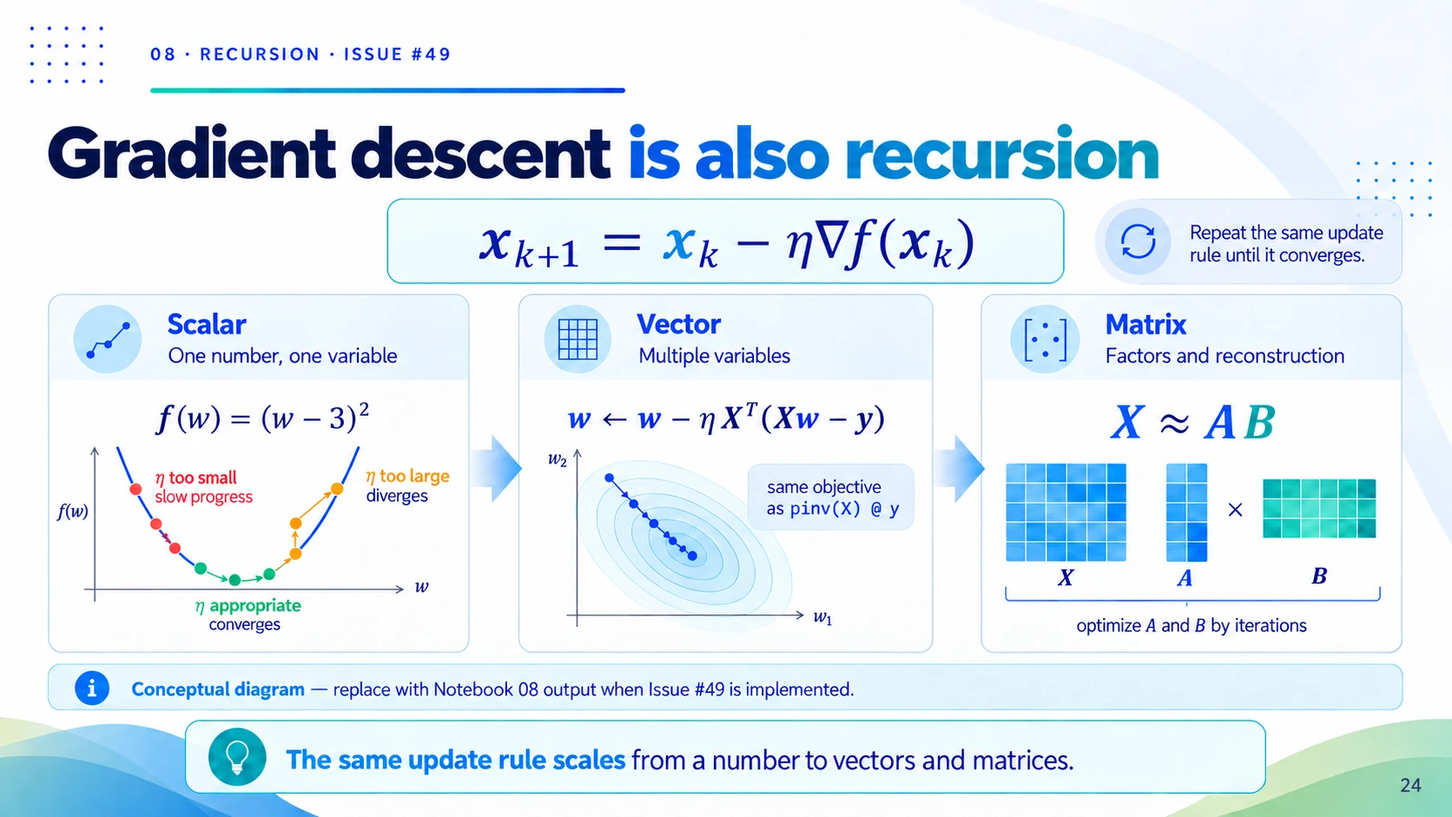
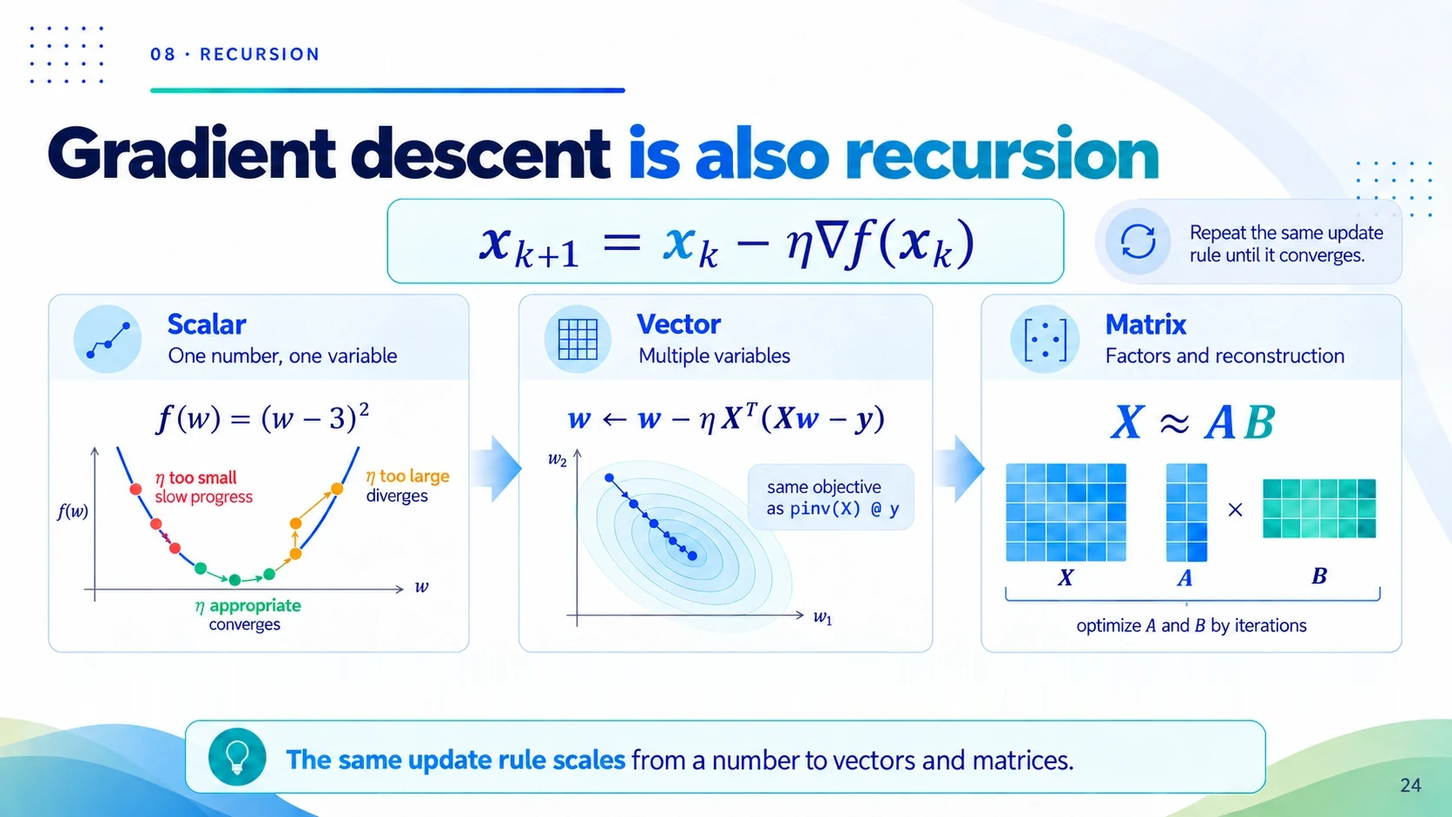
Make the copy say what the session does (#187)
The handbook's "What you did today" credited the room with a 20,433-row
fit, an airline forecast, an eigenvector and a deconvolved photograph, all
now Explore later or take-home, and skipped 05, 09 and 11. It is rewritten
from the core routes, in both languages.

Quiz 3 runs after section 10 and before 11, not right before the wrap-up:
fixed in the handbook, both Kahoot pages, kahoot/README.md and both decks.
The cutting order drops three items that sit outside the 210 minutes and
so saved nothing. The quizzes-and-breaks arithmetic, the 210-minute
subtitle, "convolving" on the homepage and the Spanish README, slide 29b's
Colab title and the 25-pixel deconvolution border (which is what gives
0.1157 -> 0.0815) are corrected too.

Slide 24 loses its "replace when Issue #49 is implemented" banner in both
languages, painted out of the webp; #49 was closed without the notebook
work. The 07/09/10 vs 07/10/13 split in the wrap-up is deliberate
(_variables.yml documents it) and is left alone.

Changed region(s): [[0.0311, 0.8013, 0.9641, 0.8937], [0.2177, 0.0616, 0.311, 0.0925], [0.3732, 0.4006, 0.4043, 0.4315]]

diff --git a/es/tensors_workshop_plan_with_quizzes.md b/es/tensors_workshop_plan_with_quizzes.md
@@ -1,6 +1,6 @@
 ---
 title: "Tensores para Aprendizaje Automático"
-subtitle: "Un taller de 3 horas (+3 controles de Kahoot) — Manual del estudiante"
+subtitle: "Un taller de 210 minutos con tres controles de Kahoot — Manual del estudiante"
 lang: es
 title-block-banner: ../images/hero-band.png
 title-block-banner-color: body
@@ -80,7 +80,8 @@ también antes del siguiente cambio de contexto: una pausa, o una Parte nueva.
 Así el cuestionario refuerza el trabajo en vez de interrumpirlo. El
 cuestionario 1 cierra el trabajo de formas y vocabulario de las secciones 03 y
 04. El 2 cierra el tramo de einsum y pseudoinversa, secciones 06 y 07. El 3
-cierra el tramo de descomposiciones, secciones 09 y 10, justo antes del cierre.
+cierra el Tucker de la sección 10 mientras el resultado de los taxis sigue en
+pantalla, antes de que la sección 11 lleve el mismo tensor a CP.
 
 ---
 
@@ -815,7 +816,7 @@ Fíjate en las cadenas de einsum: `'ijk,ia,jb,kc->abc'` contrae tres ejes en una
 
 <span data-language-key="kahoot-quiz-3-convolution-tensor-decompositions-5-min"></span>
 
-**Hazlo justo después de la sección 10, antes de la sección 11.** Sus seis preguntas siguen cubriendo convolución y correlación junto con Tucker y CP. La convolución pasó a ser el ejercicio para casa 13 cuando las factorizaciones entraron en la jornada, y las preguntas todavía no se han reescrito. Hazlo mientras el resultado de la hora punta del tensor de taxis siga en pantalla. Lanza `kahoot_quiz_3_convolution_decompositions.xlsx` (6 preguntas, ~5 min). Sirve además de ensayo en vivo del propio repaso del cierre, así que enlaza directamente del cuestionario al cierre.
+**Hazlo justo después de la sección 10, antes de la sección 11.** Sus seis preguntas siguen cubriendo convolución y correlación junto con Tucker y CP. La convolución pasó a ser el ejercicio para casa 13 cuando las factorizaciones entraron en la jornada, y las preguntas todavía no se han reescrito. Hazlo mientras el resultado de la hora punta del tensor de taxis siga en pantalla. Lanza `kahoot_quiz_3_convolution_decompositions.xlsx` (6 preguntas, ~5 min) y pasa directamente del podio a la sección 11, que lleva el mismo tensor a CP.
 
 ---
 
@@ -937,12 +938,12 @@ Para el tratamiento interactivo completo —selector de método, tiempos medidos
 
 Lo que has hecho hoy:
 
-1. **Parte I**: aprender el vocabulario de los tensores (eje, orden, forma, corte, fibra, desplegado, contracción, descomposición), y que el desplegado convierte cualquier tensor en una matriz sin perder un solo número.
-2. **Parte II**: trabajar qué significan los ejes y por qué el eje de lote y el eje de tiempo son semánticamente distintos.
-3. **Parte III**: indexar, hacer broadcasting, reorganizar y transponer datos reales de tumores e imágenes médicas reales, y tropezar con problemas reales: píxeles de varianza cero, y `reshape` destruyendo una imagen en silencio.
-4. **Parte IV**: escribir contracciones con `einsum`; resolver un sistema irresoluble de 20 433 ecuaciones con la pseudoinversa; usar la recursión para pronosticar tráfico aéreo real y para encontrar un vector propio; convolucionar y deconvolucionar una fotografía real; y comprimir 4,7× un tensor real de taxis con Tucker, cuyo patrón horario más fuerte tiene su pico en la hora punta.
+1. **Parte I**: leer una fotografía real como un tensor: forma `(512, 512, 3)`, 786 432 números, y un eje que se conoce por lo que significa además de por su tamaño.
+2. **Parte II**: barajar un lote de dígitos y un clip de vídeo con la misma permutación: los dígitos conservaron sus etiquetas y el vídeo perdió su historia, porque el eje de lote y el eje de tiempo son ejes de distinto tipo.
+3. **Parte III**: estandarizar 1797 dígitos con broadcasting y tropezar con los píxeles que nunca varían y se convierten en NaN; mover el eje de canal de imágenes reales de microscopía y cazar el único `reshape` que corre sin error y desordena una fotografía; y quedarse con 16 de los 720 fotogramas de un vídeo real, cada uno rastreado hasta el fotograma del que salió.
+4. **Parte IV**: pasar una imagen en color a gris con un solo `einsum`; ver cómo la pseudoinversa elige la más pequeña de muchas respuestas igual de buenas cuando dos columnas son copia una de la otra; calcular Fibonacci como una potencia de matriz; ajustar el tráfico aéreo real por QR y por las ecuaciones normales, y descubrir residuos parecidos que esconden coeficientes distintos; y reducir un tensor real de taxis de 480 conteos a 60 números con Tucker, conservando un único patrón diario con su pico en la hora 18, antes de que CP ganara el mismo juego al bajar el umbral de error al 2 %.
 
-**Una sola idea conecta las secciones 07, 09 y 10:** cuando un problema no tiene respuesta exacta ni inversa verdadera, no te rindes: buscas la mejor aproximación estable. Esas tres secciones la *enuncian*. La ves ocurrir tres veces: la pseudoinversa sobre un sistema lineal real en la sección 07, Tucker sobre un tensor demasiado grande en la sección 10, y Richardson-Lucy sobre una fotografía desenfocada en el ejercicio 13.
+**Una sola idea conecta las secciones 07, 09 y 10:** cuando un problema no tiene respuesta exacta ni inversa verdadera, no te rindes: buscas la mejor aproximación estable. Esas tres secciones la *enuncian*. La ves ocurrir tres veces: la pseudoinversa sobre dos columnas que son copia una de la otra en la sección 07, Tucker sobre el tensor de taxis en la sección 10, y Richardson-Lucy sobre una fotografía desenfocada en el ejercicio 13.
 
 **Adónde ir después**
 
@@ -1249,7 +1250,7 @@ sobel = np.array([[-1,0,1],[-2,0,2],[-1,0,1]], float)
 #         even though it does not undo anything?
 # TODO 4 (true deconvolution): add small noise to the blurred image, then try to
 #         recover the original with skimage.restoration.richardson_lucy(...,
-#         num_iter=50). Measure error BEFORE and AFTER, ignoring a 20-pixel
+#         num_iter=50). Measure error BEFORE and AFTER, ignoring a 25-pixel
 #         border. Did it improve?
 ```
 
@@ -1296,7 +1297,7 @@ naive = np.real(np.fft.ifft2(np.fft.fft2(noisy) / np.where(abs(K) < 1e-3, 1e-3, 
 
 **Idioma.** El alumnado tiene el inglés como segunda lengua (Colombia). Habla despacio, evita los modismos y define los términos la primera vez que los uses. Nombra en voz alta los cognados en español desde el principio —*eje*, *descomposición*, *contracción*, *convolución*—: quita fricción de inmediato. Invita a preguntar en cualquiera de los dos idiomas. Avisa de los dos sentidos de «rank» al comienzo de la Parte I.
 
-**Números verificados.** Toda salida citada en este documento se ejecutó y se comprobó: radio medio maligno frente a benigno 17,5/12,1; 3 píxeles de varianza cero en los dígitos; 207 valores faltantes en los datos de vivienda; RMSE de vivienda ≈ 75 980; error de deconvolución 0,1157 → 0,0815 (excluyendo un borde de 20 píxeles); Tucker sobre taxis con compresión 4,71× al 6,7 % de error y el factor de hora con su pico en las 18; para el apéndice E, una grabación de 4,949 s que da una STFT de (513, 465) cuyo mejor rango probado es 40 a 9,08 dB frente a los 5,00 dB de la entrada ruidosa; y, para la sección 09, la Vandermonde de grado 10 de la serie aérea con κ(X) = 2,16e7 y κ(XᵀX) = 4,65e14, con errores de coeficiente de 1,95e-03 por ecuaciones normales frente a 2,04e-14 por QR, y el rango 16 de la imagen astronaut a 21,1 dB. Si alguien obtiene algo distinto, merece investigarse en lugar de descartarse. **La única excepción son los tiempos de la sección 09.** Son propiedades de la máquina, no de los datos. Una CPU de Colab no los reproducirá, y por eso el apéndice cita razones y no milisegundos.
+**Números verificados.** Toda salida citada en este documento se ejecutó y se comprobó: radio medio maligno frente a benigno 17,5/12,1; 3 píxeles de varianza cero en los dígitos; 207 valores faltantes en los datos de vivienda; RMSE de vivienda ≈ 75 980; error de deconvolución 0,1157 → 0,0815 (excluyendo un borde de 25 píxeles); Tucker sobre taxis con compresión 4,71× al 6,7 % de error y el factor de hora con su pico en las 18; para el apéndice E, una grabación de 4,949 s que da una STFT de (513, 465) cuyo mejor rango probado es 40 a 9,08 dB frente a los 5,00 dB de la entrada ruidosa; y, para la sección 09, la Vandermonde de grado 10 de la serie aérea con κ(X) = 2,16e7 y κ(XᵀX) = 4,65e14, con errores de coeficiente de 1,95e-03 por ecuaciones normales frente a 2,04e-14 por QR, y el rango 16 de la imagen astronaut a 21,1 dB. Si alguien obtiene algo distinto, merece investigarse en lugar de descartarse. **La única excepción son los tiempos de la sección 09.** Son propiedades de la máquina, no de los datos. Una CPU de Colab no los reproducirá, y por eso el apéndice cita razones y no milisegundos.
 
 **Las descargas.** Tres CSV desde URL raw de GitHub. Son pequeños y rápidos. Aun así, confirma en los primeros 5 minutos que todas las descargas han funcionado: quien falle en silencio se quedará atascado en las secciones 07 y 10. Ten los tres CSV replicados en el repositorio del taller como alternativa.
 
@@ -1306,11 +1307,11 @@ naive = np.real(np.fft.ifft2(np.fft.fft2(noisy) / np.where(abs(K) < 1e-3, 1e-3, 
 
 **Los tres cuestionarios de Kahoot.** Cada uno son 6 preguntas en `kahoot_quiz_1_vocabulary_shapes.xlsx`, `kahoot_quiz_2_distance_pseudoinverse.xlsx` y `kahoot_quiz_3_convolution_decompositions.xlsx`, situados después de las secciones 04, 07 y 10 respectivamente. Importa cada uno a un kahoot con antelación (Create → Add question → Import → Import spreadsheet); no lo hagas en directo. Presupuesta 5 minutos por cuestionario con el podio incluido; a los grupos les suele apetecer ver la clasificación, y está bien, es la recompensa. Estos suman 15 minutos en total, y llevan el taller de 195 a 210 minutos.
 
-**Recortes por tiempo.** En este orden: quita el **Kahoot 2** (el menos novedoso de los tres: la pseudoinversa y la distancia se vuelven a cubrir narrativamente en el cierre), luego el TODO 4 del apéndice F (deconvolución verdadera, lo más exigente técnicamente y ya de por sí para casa), luego el fragmento de RNN de la demo de recursión, luego la pregunta 5 del bloque de grupo del pipeline de vídeo, y luego el **Kahoot 1**. No quites nunca la §1.3 de la Parte I, la sección 10 ni el **Kahoot 3**. El Kahoot 3 es la forma más barata de comprobar si Tucker y CP han calado, y solo puedes comprobarlo antes de que la gente se vaya.
+**Recortes por tiempo.** En este orden: quita el **Kahoot 2** (el menos novedoso de los tres: la pseudoinversa vuelve en la diapositiva de la idea única del cierre) y luego el **Kahoot 1**. Todo lo que queda después del **Fin de la ruta esencial** de un cuaderno, y todos los apéndices, ya está fuera de los 210 minutos, así que quitarlo no ahorra nada. No quites nunca la §1.3 de la Parte I, la sección 10 ni el **Kahoot 3**: el último comprueba si Tucker ha calado mientras el resultado de los taxis sigue en pantalla.
 
 **Asperezas conocidas.** El TODO 4 del apéndice F es lo más difícil del taller.
 Quien se salte el recorte del borde concluirá que la deconvolución falló, así
-que señala el recorte de 20 píxeles con claridad *antes* de que empiece el
+que señala el recorte de 25 píxeles con claridad *antes* de que empiece el
 ejercicio, no después. El TODO 3 de la sección 07 pide provocar un error a
 propósito. Habrá quien piense que ha hecho algo mal, así que di de antemano que
 el error es el resultado esperado.

diff --git a/tensors_workshop_plan_with_quizzes.md b/tensors_workshop_plan_with_quizzes.md
@@ -1,6 +1,6 @@
 ---
 title: "Tensors for Machine Learning"
-subtitle: "A 3-Hour Workshop (+3 Kahoot Checks) — Student Handbook"
+subtitle: "A 210-Minute Workshop with Three Kahoot Checks — Student Handbook"
 title-block-banner: images/hero-band.png
 title-block-banner-color: body
 ---
@@ -61,8 +61,8 @@ supply its content, while the material is still fresh. Each also lands before
 the next context switch — a break, or a new Part. So a quiz reinforces the work
 rather than interrupting it. Quiz 1 closes out the shape-and-vocabulary work of
 sections 03 and 04. Quiz 2 closes out the einsum and pseudoinverse stretch,
-sections 06 and 07. Quiz 3 closes out the decomposition stretch, sections 09
-and 10, right before the wrap-up.
+sections 06 and 07. Quiz 3 closes out section 10's Tucker while the taxi
+result is still on screen, before section 11 takes the same tensor to CP.
 
 ---
 
@@ -796,7 +796,7 @@ Look at the einsum strings: `'ijk,ia,jb,kc->abc'` contracts three axes in one ex
 
 <span data-language-key="kahoot-quiz-3-convolution-tensor-decompositions-5-min"></span>
 
-**Run this right after section 10, before section 11.** Its six questions still cover convolution and correlation alongside Tucker and CP. Convolution became take-home 13 when factorizations moved into the day, and the questions have not been rewritten yet. Run it while the taxi-tensor rush-hour result is still on screen. Launch `kahoot_quiz_3_convolution_decompositions.xlsx` (6 questions, ~5 min). This also doubles as a live rehearsal of the Wrap-up's own recap, so segue straight from the quiz into it.
+**Run this right after section 10, before section 11.** Its six questions still cover convolution and correlation alongside Tucker and CP. Convolution became take-home 13 when factorizations moved into the day, and the questions have not been rewritten yet. Run it while the taxi-tensor rush-hour result is still on screen. Launch `kahoot_quiz_3_convolution_decompositions.xlsx` (6 questions, ~5 min), then go straight from the podium into section 11, which takes the same tensor to CP.
 
 ---
 
@@ -921,12 +921,12 @@ For the full interactive treatment — method chooser, measured timing, matched-
 
 What you did today:
 
-1. **Part I** — learned the vocabulary of tensors (axis, order, shape, slice, fiber, unfolding, contraction, decomposition), and that unfolding turns any tensor into a matrix without losing a single number.
-2. **Part II** — worked through what axes mean and why batch and time axes are semantically different.
-3. **Part III** — indexed, broadcast, reshaped and transposed real tumour data and real medical images, and hit real problems: zero-variance pixels, and reshape silently destroying an image.
-4. **Part IV** — wrote contractions with `einsum`; solved an unsolvable 20,433-equation system with the pseudoinverse; used recursion to forecast real airline traffic and to find an eigenvector; convolved and deconvolved a real photograph; and compressed a real taxi tensor 4.7× with Tucker, whose strongest hour pattern peaks at rush hour.
+1. **Part I** — read a real photograph as a tensor: shape `(512, 512, 3)`, 786,432 numbers, and an axis known by what it means as well as by its size.
+2. **Part II** — shuffled a batch of digits and a clip of video with the same permutation: the digits kept their labels and the video lost its story, because a batch axis and a time axis are different kinds of axis.
+3. **Part III** — standardized 1,797 digits with broadcasting and hit the pixels that never vary and turn into NaN; moved the channel axis of real microscopy images and caught the one reshape that runs without an error and scrambles a photograph; and kept 16 of a real video's 720 frames, each traced back to the frame it came from.
+4. **Part IV** — turned a colour image grey with one `einsum`; watched the pseudoinverse pick the smallest of many equally good answers when two columns are copies of each other; ran Fibonacci as a matrix power; fitted real airline traffic by QR and by the normal equations, and found similar residuals hiding different coefficients; and shrank a real taxi tensor from 480 counts to 60 numbers with Tucker, keeping one daily pattern that peaks at hour 18, before CP won the same game once the error bar dropped to 2%.
 
-**One idea connects sections 07, 09 and 10:** when a problem has no exact answer and no true inverse, you do not give up. You find the best stable approximation instead. Those three sections *state* it. You watch it happen three times: the pseudoinverse on a real linear system in section 07, Tucker on an oversized tensor in section 10, and Richardson-Lucy on a blurred photograph in take-home 13.
+**One idea connects sections 07, 09 and 10:** when a problem has no exact answer and no true inverse, you do not give up. You find the best stable approximation instead. Those three sections *state* it. You watch it happen three times: the pseudoinverse on two columns that are copies of each other in section 07, Tucker on the taxi tensor in section 10, and Richardson-Lucy on a blurred photograph in take-home 13.
 
 **Where to go next**
 - `torch.einsum` / `tf.einsum` / `jnp.einsum` — identical syntax to what you used today.
@@ -1229,7 +1229,7 @@ sobel = np.array([[-1,0,1],[-2,0,2],[-1,0,1]], float)
 #         even though it does not undo anything?
 # TODO 4 (true deconvolution): add small noise to the blurred image, then try to
 #         recover the original with skimage.restoration.richardson_lucy(...,
-#         num_iter=50). Measure error BEFORE and AFTER, ignoring a 20-pixel
+#         num_iter=50). Measure error BEFORE and AFTER, ignoring a 25-pixel
 #         border. Did it improve?
 ```
 
@@ -1276,7 +1276,7 @@ naive = np.real(np.fft.ifft2(np.fft.fft2(noisy) / np.where(abs(K) < 1e-3, 1e-3, 
 
 **Language.** Students are ESL (Colombia). Speak slowly, avoid idiom, and define terms on first use. Name the Spanish cognates aloud early — *eje*, *descomposición*, *contracción*, *convolución* — it removes friction immediately. Invite questions in either language. Warn about the two meanings of "rank" at the start of Part I.
 
-**Verified numbers.** Every output quoted in this document was executed and checked: malignant vs benign mean radius 17.5/12.1; 3 zero-variance digit pixels; 207 missing values in the housing data; housing RMSE ≈ 75,980; deconvolution error 0.1157 → 0.0815 (20-pixel border excluded); taxi Tucker 4.71× compression at 6.7% error with the hour factor peaking at 18; for Appendix E, a 4.949 s recording giving a (513, 465) STFT whose best tested rank is 40 at 9.08 dB against the noisy input's 5.00 dB; and, for section 09, the degree-10 airline Vandermonde at κ(X) = 2.16e7 and κ(XᵀX) = 4.65e14, with coefficient errors of 1.95e-03 by the normal equations against 2.04e-14 by QR, and rank 16 of the astronaut image at 21.1 dB. If a student gets something different, it is worth investigating rather than dismissing. **The one exception is section 09's timings.** Those are properties of the machine, not of the data. A Colab CPU will not reproduce them, which is why the appendix quotes ratios rather than milliseconds.
+**Verified numbers.** Every output quoted in this document was executed and checked: malignant vs benign mean radius 17.5/12.1; 3 zero-variance digit pixels; 207 missing values in the housing data; housing RMSE ≈ 75,980; deconvolution error 0.1157 → 0.0815 (25-pixel border excluded); taxi Tucker 4.71× compression at 6.7% error with the hour factor peaking at 18; for Appendix E, a 4.949 s recording giving a (513, 465) STFT whose best tested rank is 40 at 9.08 dB against the noisy input's 5.00 dB; and, for section 09, the degree-10 airline Vandermonde at κ(X) = 2.16e7 and κ(XᵀX) = 4.65e14, with coefficient errors of 1.95e-03 by the normal equations against 2.04e-14 by QR, and rank 16 of the astronaut image at 21.1 dB. If a student gets something different, it is worth investigating rather than dismissing. **The one exception is section 09's timings.** Those are properties of the machine, not of the data. A Colab CPU will not reproduce them, which is why the appendix quotes ratios rather than milliseconds.
 
 **The downloads.** Three CSVs from GitHub raw URLs. They are small and fast. Even so, confirm in the first 5 minutes that every download succeeded: a student whose download fails quietly will be stuck at sections 07 and 10. Have the three CSVs mirrored in the workshop repo as a fallback.
 
@@ -1286,10 +1286,10 @@ naive = np.real(np.fft.ifft2(np.fft.fft2(noisy) / np.where(abs(K) < 1e-3, 1e-3, 
 
 **The three Kahoot quizzes.** Each is 6 questions in `kahoot_quiz_1_vocabulary_shapes.xlsx`, `kahoot_quiz_2_distance_pseudoinverse.xlsx`, and `kahoot_quiz_3_convolution_decompositions.xlsx`, sitting after sections 04, 07 and 10 respectively. Import each into a kahoot ahead of time (Create → Add question → Import → Import spreadsheet) — don't do this live. Budget 5 minutes per quiz including the podium; groups tend to want to see the leaderboard, and that's fine, it's the payoff. These add 15 minutes total, taking the workshop from 195 to 210 minutes.
 
-**Cutting for time.** In order: drop **Kahoot Quiz 2** (the least novel of the three — pseudoinverse and distance get re-covered narratively in the Wrap-up), then TODO 4 of Appendix F (true deconvolution — the most technically demanding, and now take-home anyway), then the RNN snippet in the recursion demo, then question 5 of the video-pipeline group block, then **Kahoot Quiz 1**. Never cut Part I §1.3, section 10, or Kahoot Quiz 3 — the last one is the cheapest way to check whether Tucker/CP actually landed before students leave.
+**Cutting for time.** In order: drop **Kahoot Quiz 2** (the least novel of the three — the pseudoinverse comes back on the wrap-up's one-idea slide), then **Kahoot Quiz 1**. Everything past a notebook's **Core complete**, and every appendix, already sits outside the 210 minutes, so cutting it saves nothing. Never cut Part I §1.3, section 10, or Kahoot Quiz 3 — the last one checks whether Tucker landed while the taxi result is still on screen.
 
 **Known rough edges.** Appendix F TODO 4 is the hardest thing in the workshop.
 A student who skips the border crop will conclude deconvolution failed, so flag
-the 20-pixel crop clearly *before* the exercise starts, not after. Section 07
+the 25-pixel crop clearly *before* the exercise starts, not after. Section 07
 TODO 3 asks students to trigger an error deliberately — some will think they
 did something wrong, so say in advance that the error is the expected result.

diff --git a/kahoot/README.md b/kahoot/README.md
@@ -15,11 +15,13 @@ so it reinforces rather than interrupts.
 |---|---|---|---|---|
 | **1 — Tensor Vocabulary & Shapes** | [`kahoot_quiz_1_vocabulary_shapes.xlsx`](kahoot_quiz_1_vocabulary_shapes.xlsx) | Section 04, before the first break | 01, 03, 04 | 6 |
 | **2 — Einsum, Distance & the Pseudoinverse** | [`kahoot_quiz_2_distance_pseudoinverse.xlsx`](kahoot_quiz_2_distance_pseudoinverse.xlsx) | Section 07, before the recursion demo | 06, 07 | 6 |
-| **3 — Convolution & Tensor Decompositions** | [`kahoot_quiz_3_convolution_decompositions.xlsx`](kahoot_quiz_3_convolution_decompositions.xlsx) | Section 10, immediately before the wrap-up | 10, plus leftover convolution from extra 13 | 6 |
+| **3 — Convolution & Tensor Decompositions** | [`kahoot_quiz_3_convolution_decompositions.xlsx`](kahoot_quiz_3_convolution_decompositions.xlsx) | Section 10, before section 11 | 10, plus leftover convolution from extra 13 | 6 |
 
-Sections **00, 02, 05, 08, 09 and 11** have no quiz. Five of those are
+Sections **00, 02, 05, 08, 09, 11 and 12** have no quiz. Five of those are
 deliberate: the quizzes are checkpoints after exercise stretches, so the setup,
-the two group blocks, the recursion demo and the wrap-up are not covered by one.
+the demos in 02 and 08, the group block in 05 and the wrap-up are not covered
+by one. Sections 09 and 11 are the gap: both are exercises, and no question
+has caught up with either yet.
 
 **09 is not.** Quiz 3 used to cover it, and it no longer does — half that
 quiz still asks about convolution, which left the live agenda when it became
@@ -67,22 +69,22 @@ exercise**, or expect the last two questions to land cold.
 
 **Quiz 3 spoils section 10 if you run it early.** Its final question names hour
 18 as the peak of the taxi tensor's hour factor, which is exactly what section
-10's TODO 6 asks students to discover. It must come *after*.
+10's rank explorer prints. It must come *after*.
 
 ## If you are running out of time
 
 The handbook's cutting order, in order:
 
-1. **Quiz 2** — the least novel of the three; the pseudoinverse and distance get
-   re-covered narratively in the wrap-up.
-2. TODO 4 of Appendix F (true deconvolution — the most technically demanding, and now take-home).
-3. The RNN snippet in section 08.
-4. Question 5 of either group block.
-5. **Quiz 1.**
+1. **Quiz 2** — the least novel of the three; the pseudoinverse comes back on
+   the wrap-up's one-idea slide.
+2. **Quiz 1.**
+
+Everything past a notebook's **Core complete**, and every appendix, already
+sits outside the 210 minutes, so cutting it saves nothing.
 
 **Never cut** section 01's *Three Operations That Matter*, section 10, or
-**Quiz 3** — the last is the cheapest way to check whether Tucker and CP
-actually landed before students leave.
+**Quiz 3** — the last checks whether Tucker landed while the taxi result is
+still on screen.
 
 ## Editing a quiz
 

diff --git a/CHANGELOG.md b/CHANGELOG.md
@@ -2,6 +2,7 @@
 
 ## 2026-09-23
 
+- **The copy now says what the session does.** The handbook's "What you did today" listed a 20,433-equation system, an airline forecast, an eigenvector and a deconvolved photograph, none of which the room runs any more. It now lists what each core does, from the photograph's 786,432 numbers to the taxi tensor kept in 60. Quiz 3 is described where it runs, after section 10 and before section 11, not "right before the wrap-up". The cutting order drops three items that sit outside the 210 minutes and so saved nothing. The handbook's subtitle says 210 minutes, not 3 hours. The homepage and the Spanish README stop promising convolution. Slide 24 loses its "replace when Issue #49 is implemented" banner, since that issue was closed without the notebook work. Slide 29b's Colab tab is titled with the notebook it opens. The deconvolution border is 25 pixels everywhere, which is what produces the quoted 0.1157 → 0.0815.
 - **Three games in the timed session, and not a minute added.**
   - *A bug hunt in section 04.* Four lines turn the astronaut from HWC into CHW. All four give shape `(3, 512, 512)` and none raises an error. The notebook draws the four results side by side: one right, one lying on her side, one blue, one noise. Round 1: teams match each picture to its line. Round 2: teams rewrite `looks_right` until `score_test` catches all three bugs. The shape check it starts from catches none. A channel-mean test catches two, because swapping height and width moves every pixel but changes no value. One pixel off the diagonal catches all three. The task used to point at an exercise that sat after *Core complete*, so the live room had never seen the bug it was about.
   - *Compression golf in sections 10 and 11.* Hole 1 is the rank explorer: store the taxi tensor in as few numbers as you can, under 7% error. The explorer now prints the score. Par is (3, 3, 1) at 60 numbers. (2, 2, 1), (3, 2, 1) and (2, 3, 1) all miss by less than 0.15 points. Hole 2 lets CP in and sets the bar at 2%: a new `golf()` cell prints one scorecard line per fit. CP rank 6 wins with 198 numbers against Tucker's 236. The winner flips between the holes, and that answers "which model is better?" with the room's own numbers. The leaderboard is the whiteboard or the chat.

diff --git a/README.md b/README.md
@@ -227,8 +227,8 @@ split is in [LICENSE](LICENSE).
 # Tensores para Aprendizaje Automático
 
 **Un taller de 3,5 horas (210 minutos con tres controles de conocimiento con
-Kahoot) que te lleva de «sé lo que es una matriz» a manipular, resolver,
-convolucionar y factorizar tensores.**
+Kahoot) que te lleva de «sé lo que es una matriz» a manipular, resolver y
+factorizar matrices y tensores.**
 
 📍 **[project-delphi.github.io/tensors-workshop/es](https://project-delphi.github.io/tensors-workshop/es/)**
  · 🇬🇧 [In English](#tensors-for-machine-learning)

diff --git a/slides/README.md b/slides/README.md
@@ -52,10 +52,6 @@ speaker view rather than trusting memory. The notes hold Appendix G's facilitato
 guidance where it is actually needed:
 
 - the two meanings of **"rank"**, at the start of Part I
-- the **deliberate `LinAlgError`** in section 07, which students will think is
-  their mistake
-- the **20-pixel border crop** in section 09, which must be said *before* the
-  exercise, not after
 - on each Kahoot slide: import ahead of time, budget 5 minutes, and where that
   quiz sits in the cutting order
 
